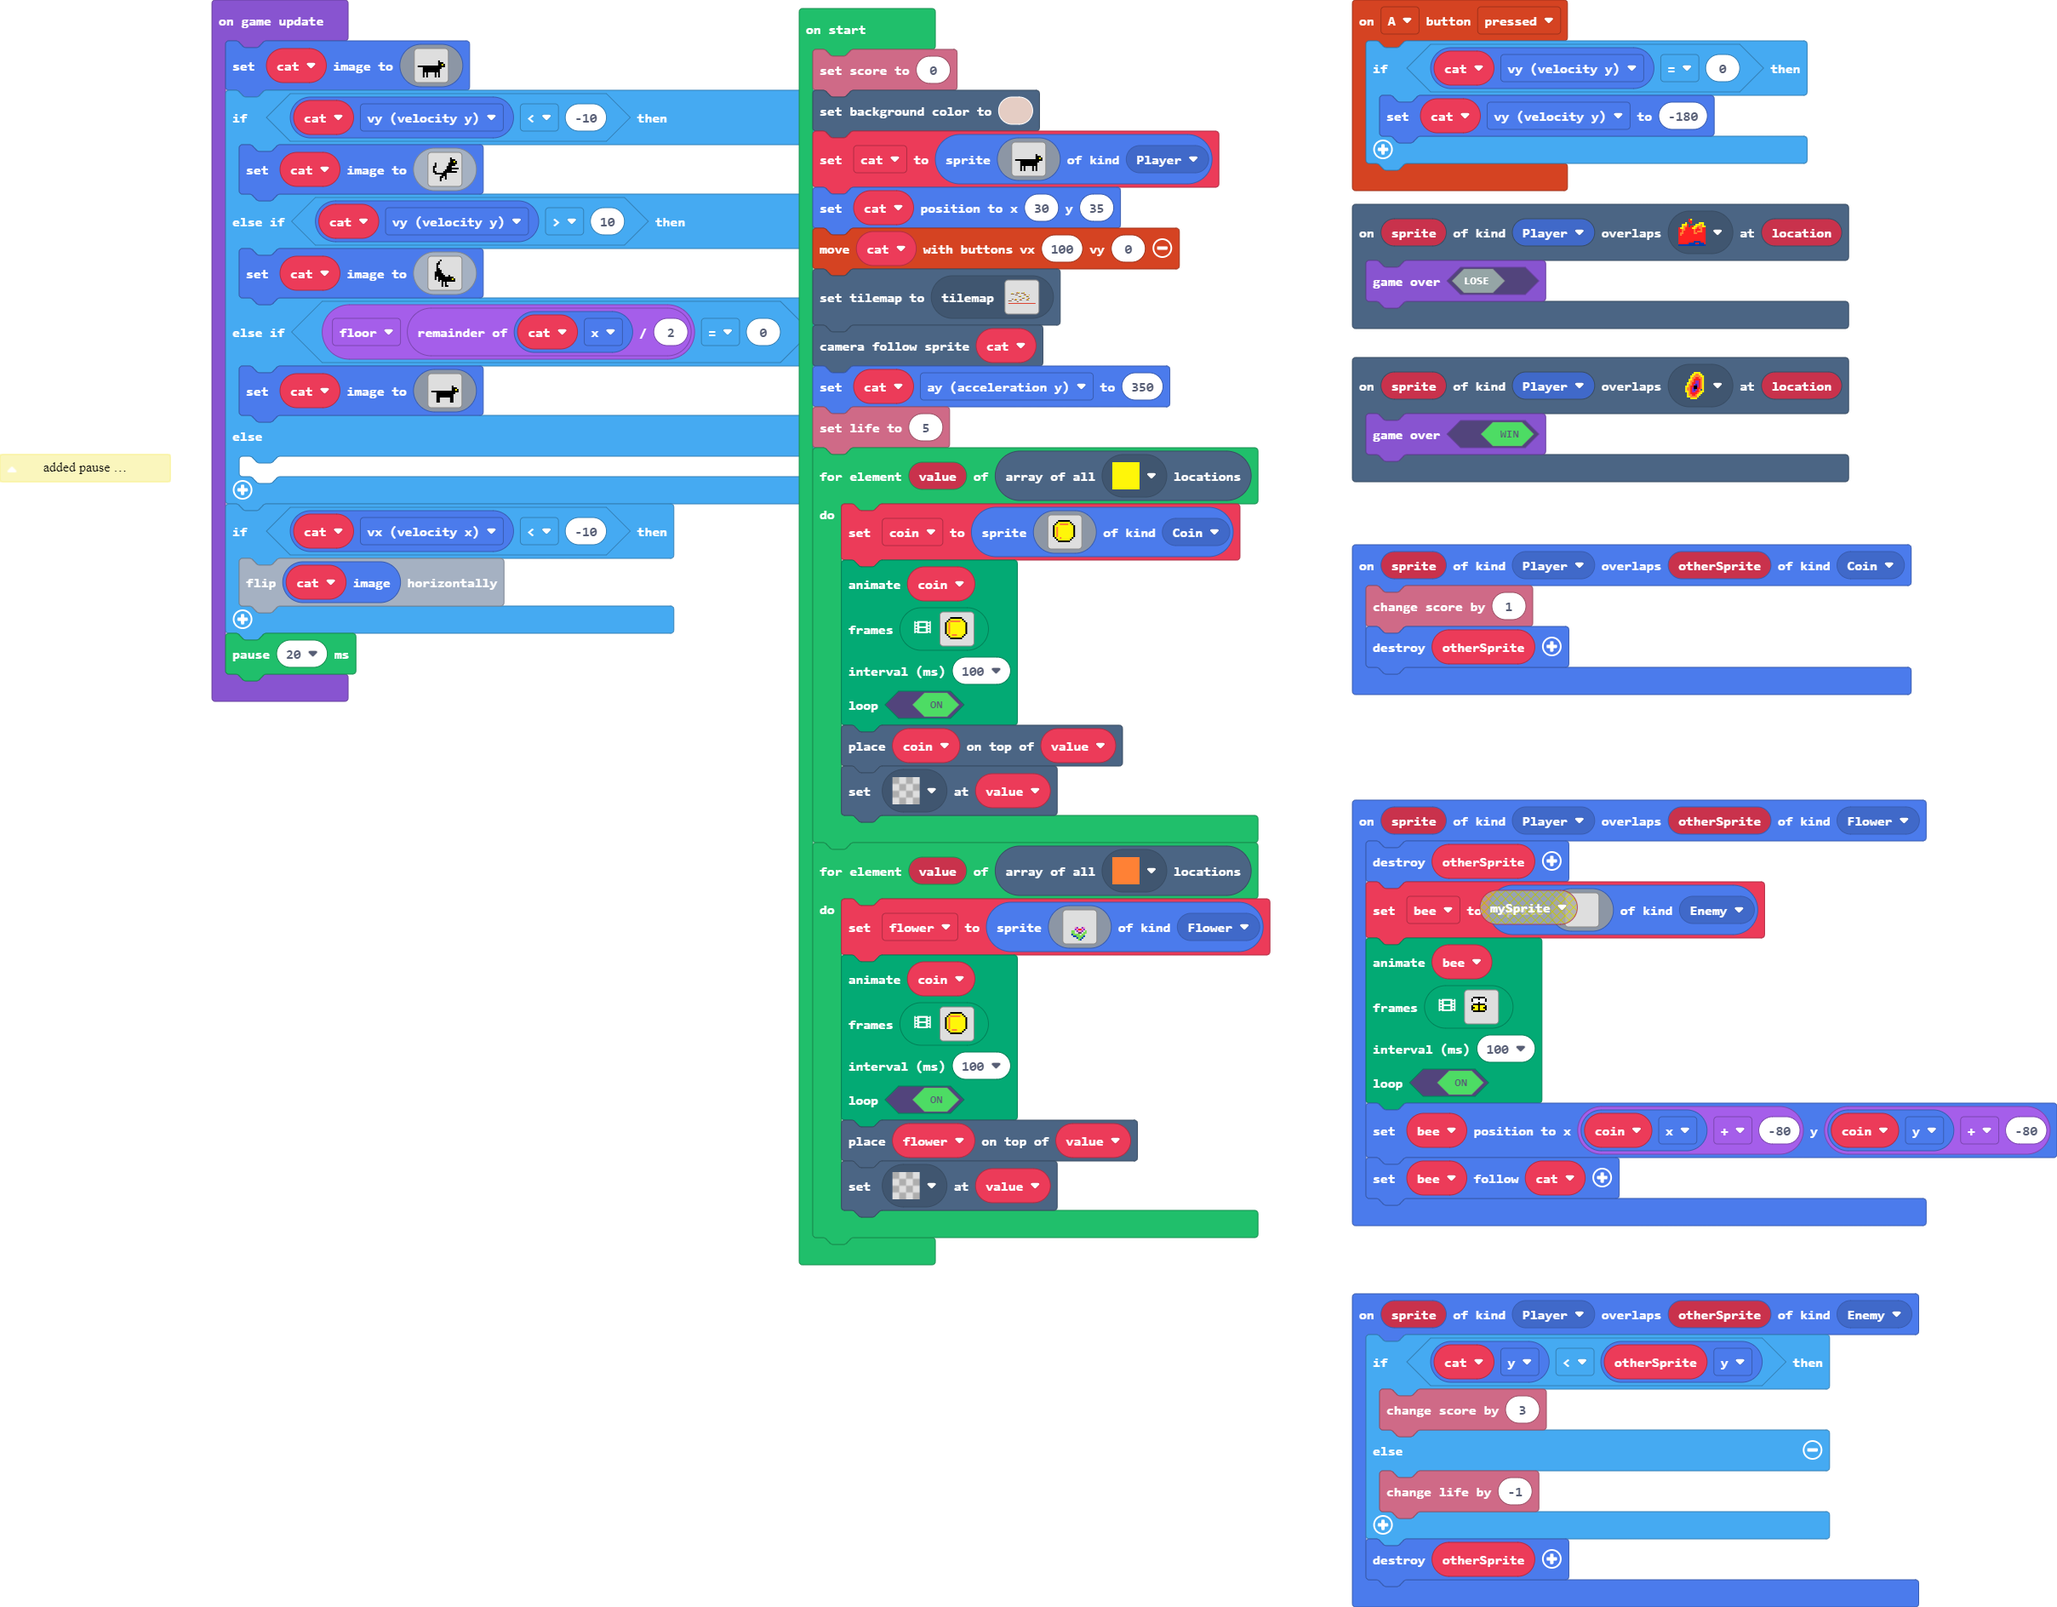
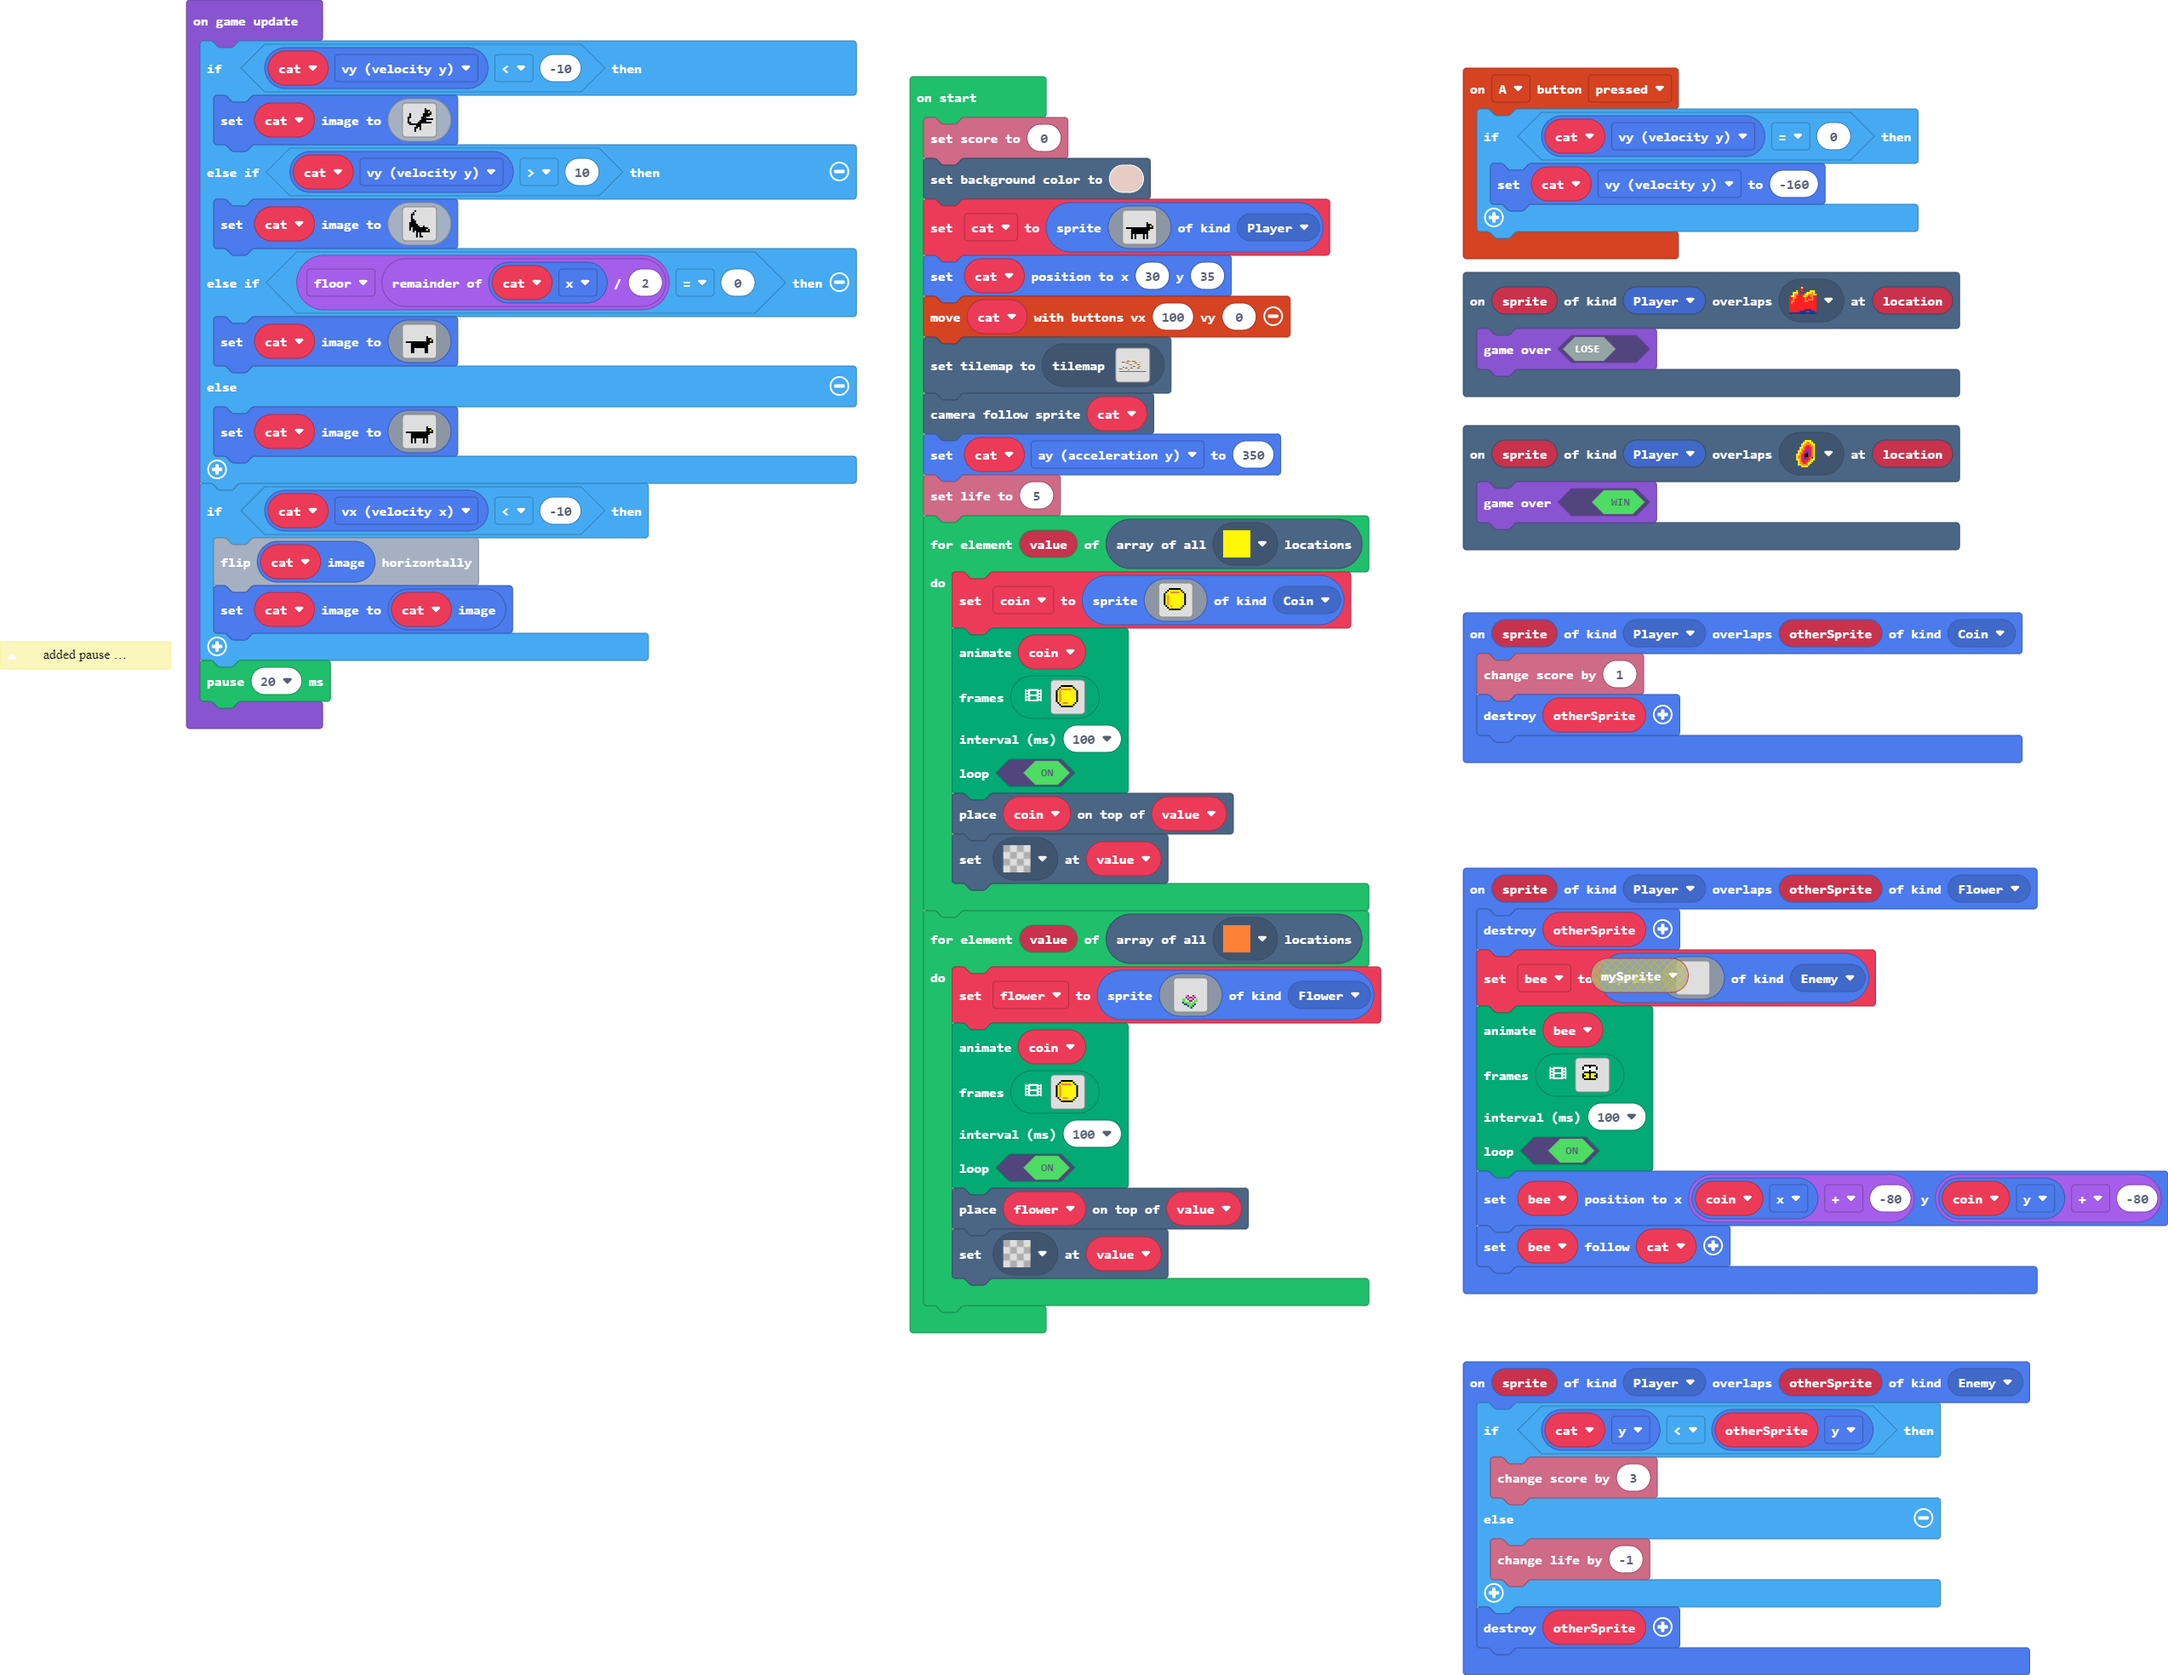
Done phase 2. The cat jiggles a little sometimes.

diff --git a/main.ts b/main.ts
@@ -2,16 +2,13 @@ namespace SpriteKind {
     export const Coin = SpriteKind.create()
     export const Flower = SpriteKind.create()
 }
-/**
- * added pause because the cat changed vertical position between animations
- */
 sprites.onOverlap(SpriteKind.Player, SpriteKind.Coin, function (sprite, otherSprite) {
     info.changeScoreBy(1)
     sprites.destroy(otherSprite)
 })
 controller.A.onEvent(ControllerButtonEvent.Pressed, function () {
     if (cat.vy == 0) {
-        cat.vy = -180
+        cat.vy = -160
     }
 })
 scene.onOverlapTile(SpriteKind.Player, assets.tile`tile3`, function (sprite, location) {
@@ -517,25 +514,10 @@ for (let value of tiles.getTilesByType(assets.tile`myTile1`)) {
     tiles.placeOnTile(flower, value)
     tiles.setTileAt(value, assets.tile`transparency16`)
 }
+/**
+ * added pause because the cat changed vertical position between animations
+ */
 game.onUpdate(function () {
-    cat.setImage(img`
-        . . . . . . . . . . . . . . . . 
-        . . . . . . . . . . . . . . . . 
-        . . . . . . . . . . . . . . . . 
-        . . . . . . . . . . . . . . . . 
-        . . . . . . . . . . . . . . . . 
-        . . . . . . . . . . . . f . . . 
-        . . . . . . . . . . . . f f f . 
-        . . . . . . . . . . . . f f 5 f 
-        f f f f f f f f f f f f f f f f 
-        . . . f f f f f f f f f f f . . 
-        . . . f f f f f f f f f f . . . 
-        . . . f f f f f f f f f f . . . 
-        . . . f . f . . . . f . f . . . 
-        . . . f . f . . . . f . f . . . 
-        . . . f . f . . . . f . f . . . 
-        . . . . . . . . . . . . . . . . 
-        `)
     if (cat.vy < -10) {
         cat.setImage(img`
             . . . . . . . . . . . . . . . . 
@@ -594,10 +576,28 @@ game.onUpdate(function () {
             . . . . . . . . . . . . . . . . 
             `)
     } else {
-    	
+        cat.setImage(img`
+            . . . . . . . . . . . . . . . . 
+            . . . . . . . . . . . . . . . . 
+            . . . . . . . . . . . . . . . . 
+            . . . . . . . . . . . . . . . . 
+            . . . . . . . . . . . . . . . . 
+            . . . . . . . . . . . . f . . . 
+            . . . . . . . . . . . . f f f . 
+            . . . . . . . . . . . . f f 5 f 
+            f f f f f f f f f f f f f f f f 
+            . . . f f f f f f f f f f f . . 
+            . . . f f f f f f f f f f . . . 
+            . . . f f f f f f f f f f . . . 
+            . . . f . f . . . . f . f . . . 
+            . . . f . f . . . . f . f . . . 
+            . . . f . f . . . . f . f . . . 
+            . . . . . . . . . . . . . . . . 
+            `)
     }
     if (cat.vx < -10) {
         cat.image.flipX()
+        cat.setImage(cat.image)
     }
     pause(20)
 })
